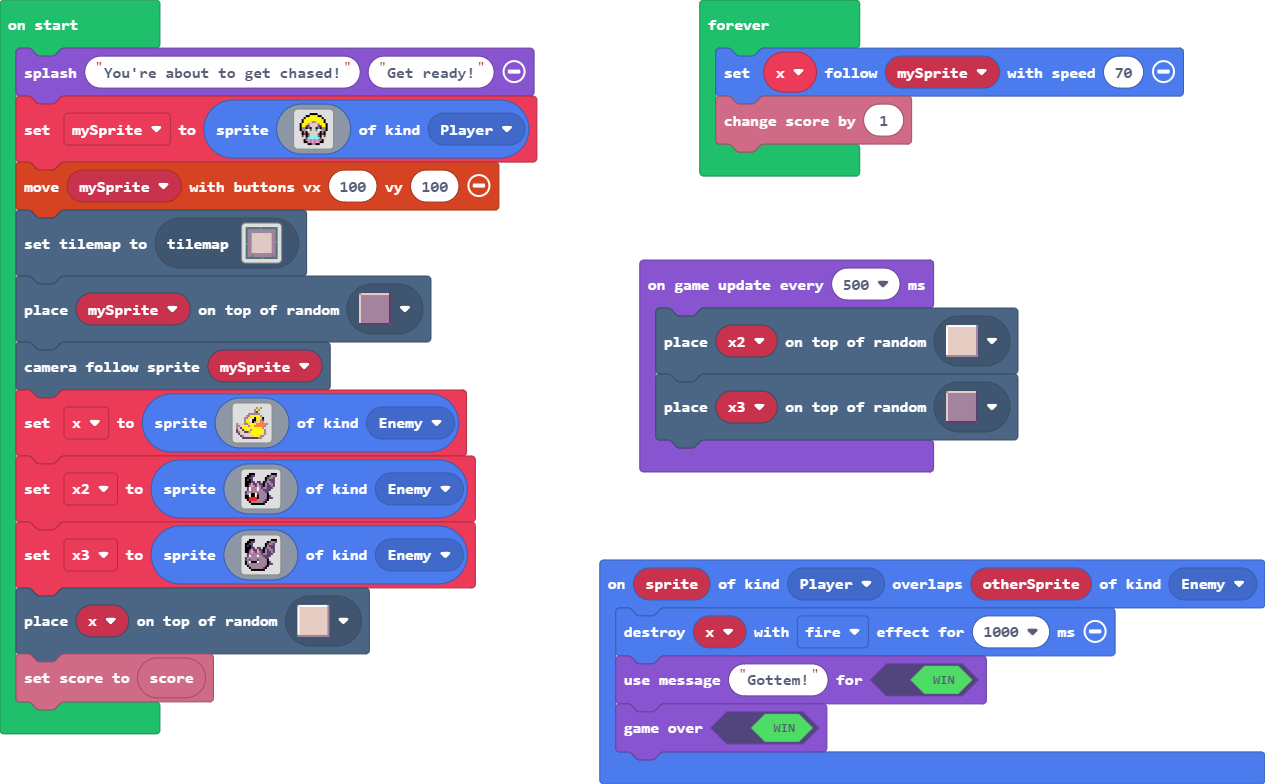
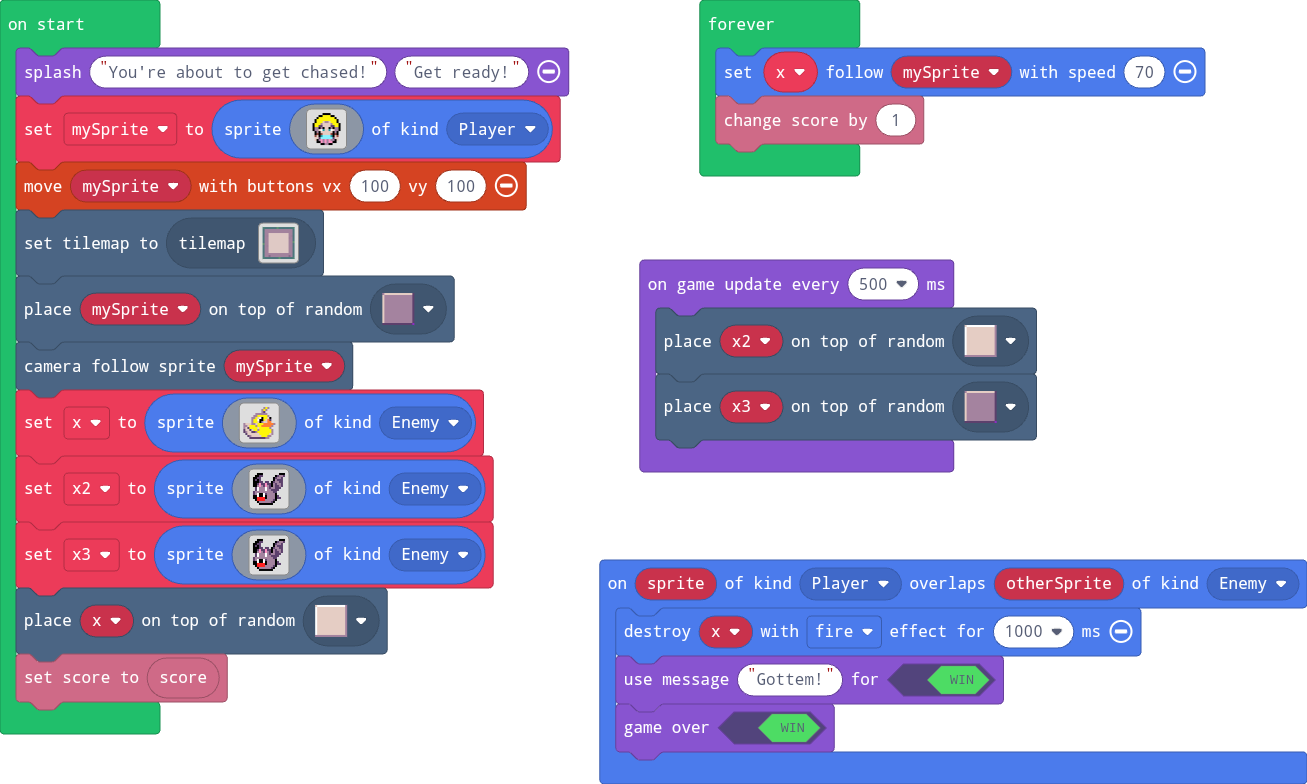
Enemy sprite update

diff --git a/main.ts b/main.ts
@@ -71,13 +71,13 @@ let x3 = sprites.create(img`
     f f f c c . c c . f c b b c c . 
     f f c 3 c c 3 c c f b c b b c . 
     f f b 3 b c 3 b c f b c c b c . 
-    . c b b b b b b c b b c c c . . 
+    . c 1 b b b 1 b c b b c c c . . 
     . c 1 b b b 1 b b c c c c . . . 
     c b b b b b b b b b c c . . . . 
-    c b c b b b c b b b b f . . . . 
-    f b 1 f f f 1 b b b b f c . . . 
-    f b b b b b b b b b b f c c . . 
-    . f b b b b b b b b c f . . . . 
+    c b 1 f f 1 c b b b b f . . . . 
+    f f 1 f f 1 f b b b b f c . . . 
+    f f 2 2 2 2 f b b b b f c c . . 
+    . f 2 2 2 2 b b b b c f . . . . 
     . . f b b b b b b c f . . . . . 
     . . . f f f f f f f . . . . . . 
     `, SpriteKind.Enemy)
